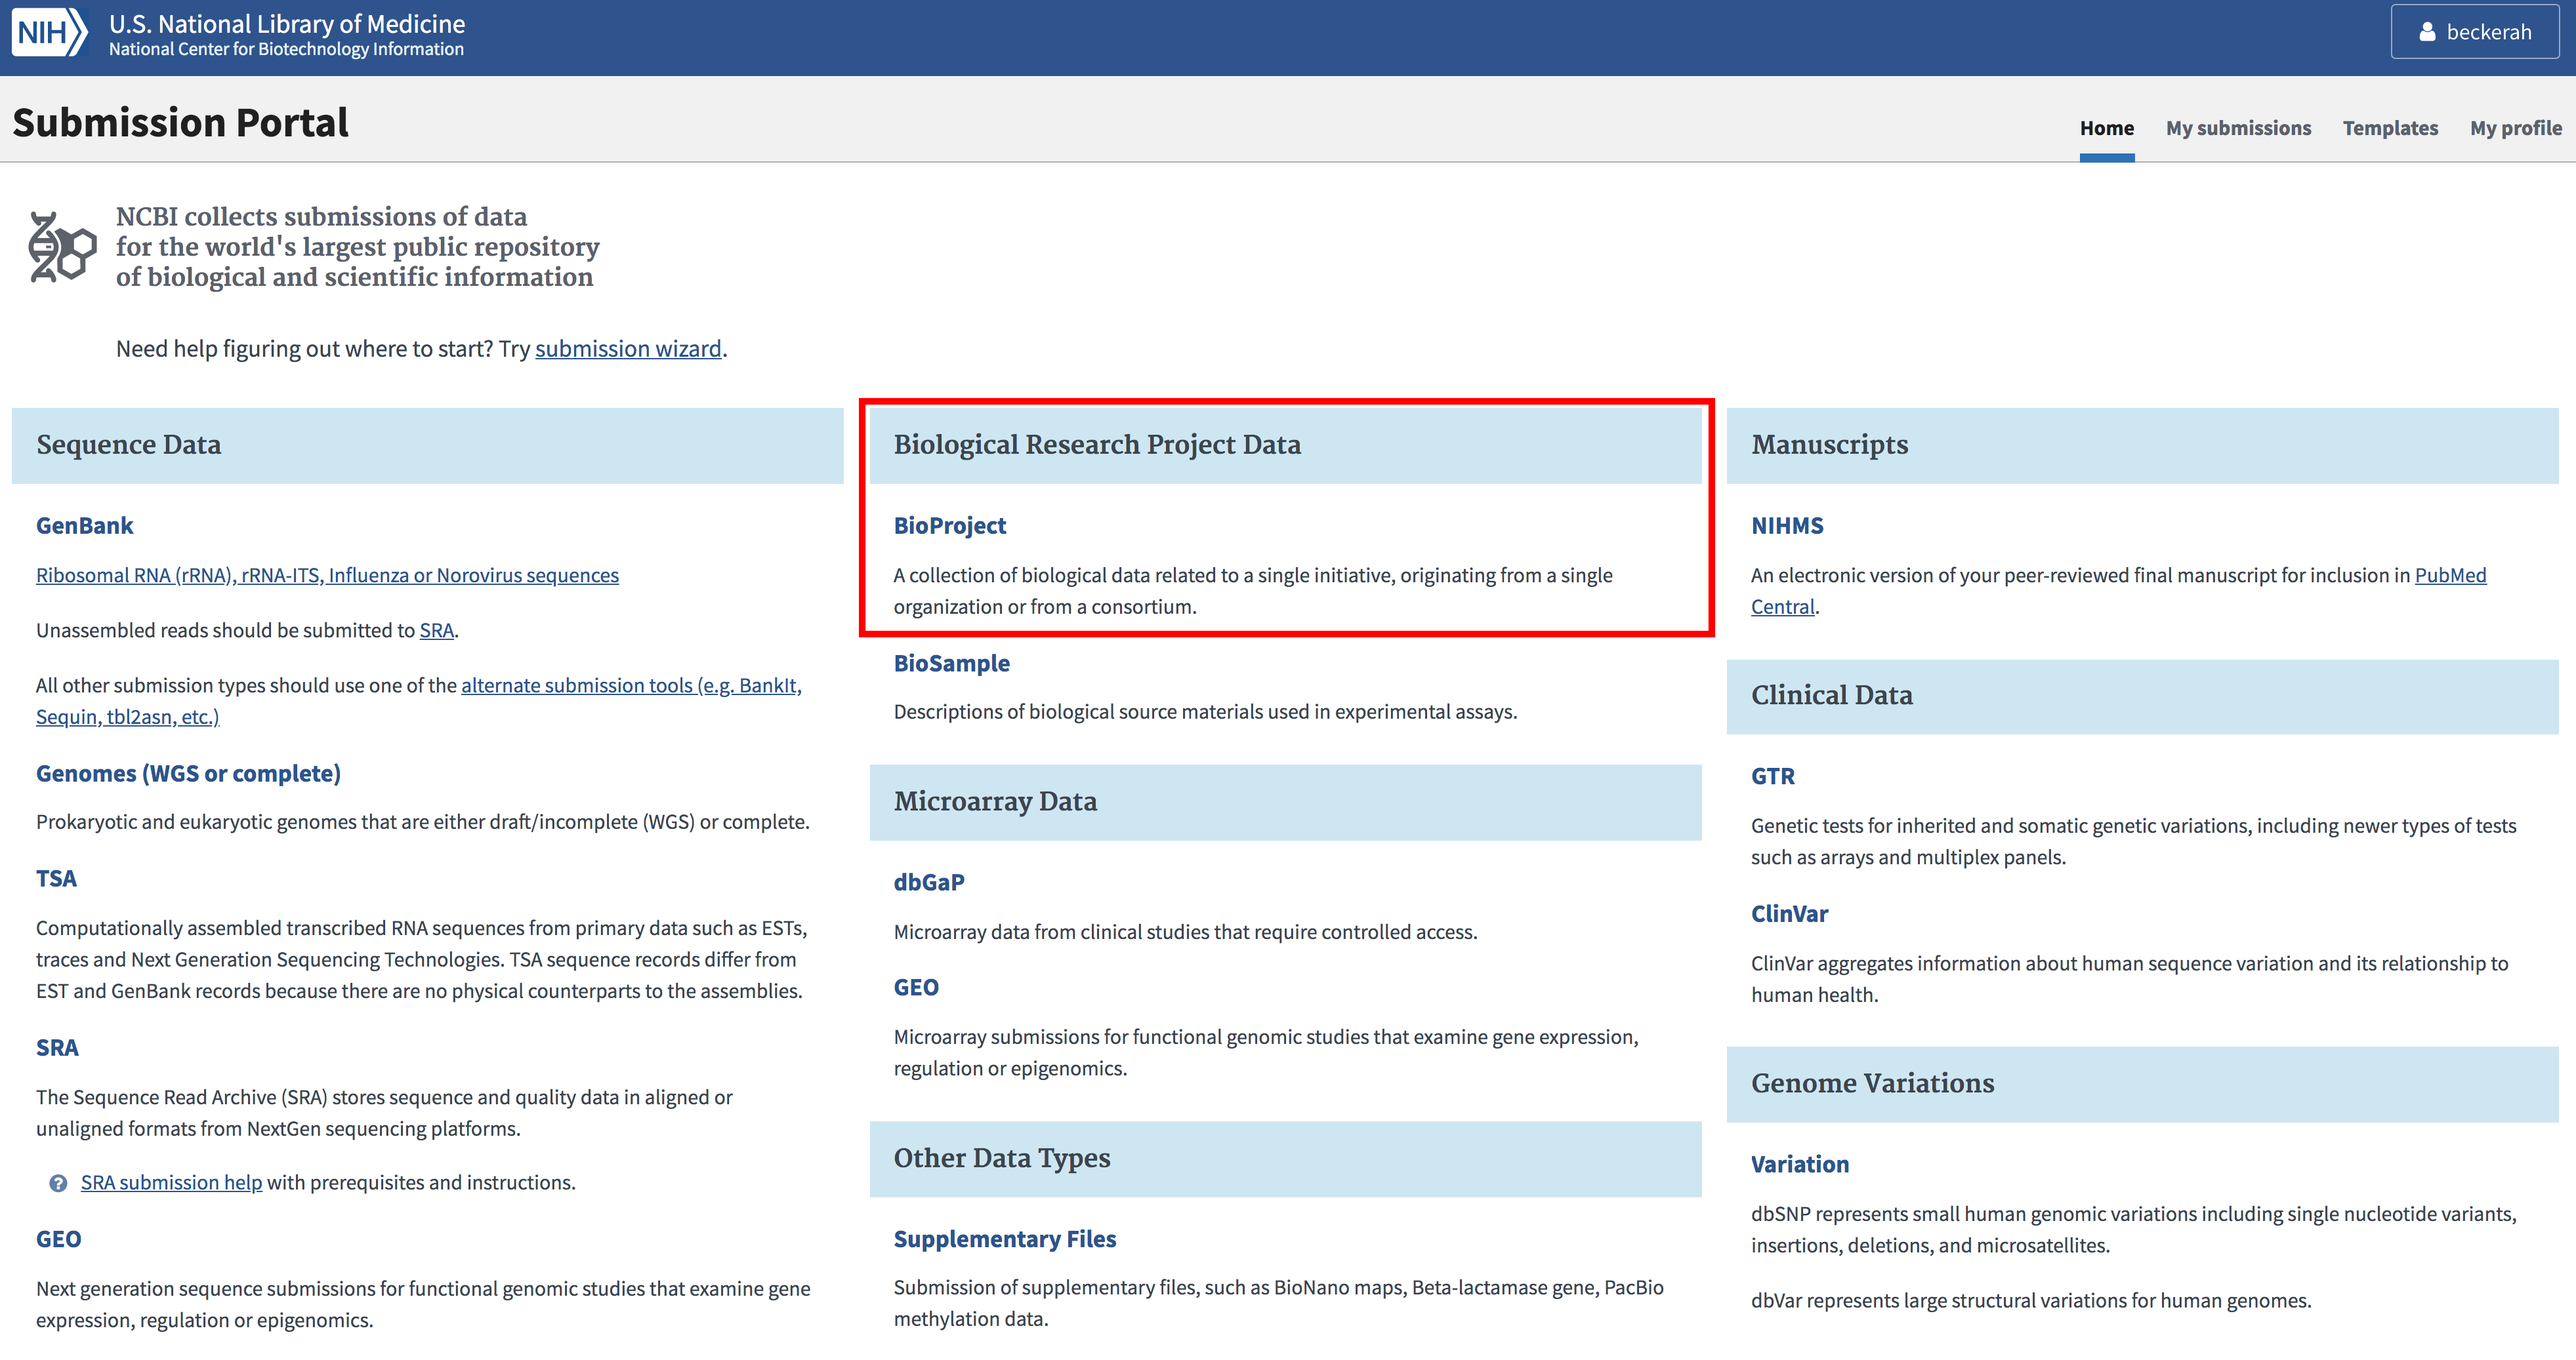
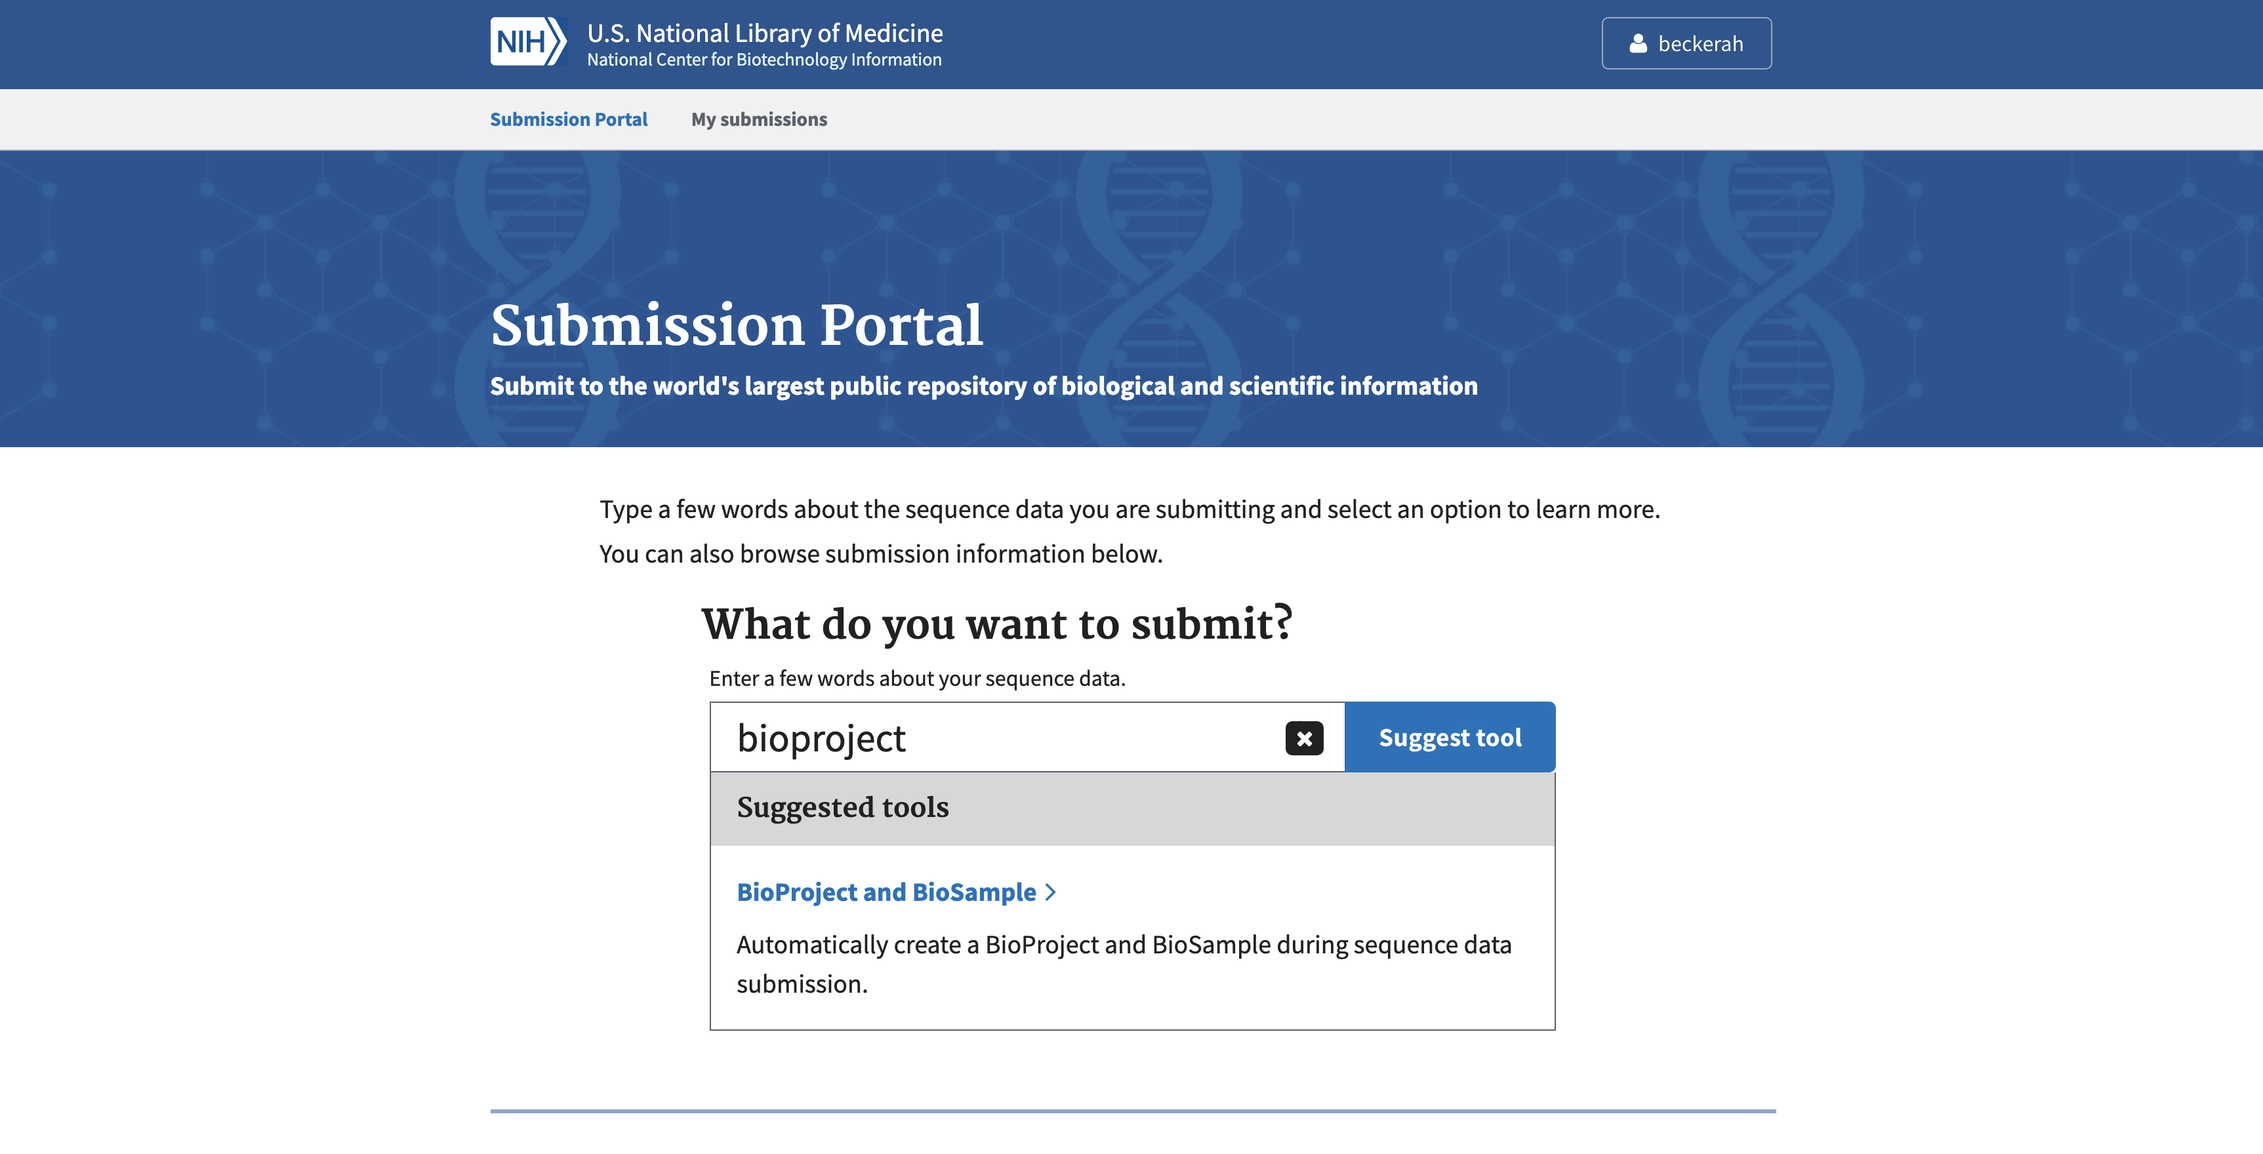
Update Bioproject Text and Images
Updating Bioproject creation info to match new Genbank site formatting

diff --git a/Docs/bioprojects.rst b/Docs/bioprojects.rst
@@ -37,7 +37,7 @@ To create a BioProject, navigate to the new NCBI Submission Portal: https://subm
 
   ..
 
-2. After signing in, you should be directed back to the Submission Portal page. Now click on the link for BioProject.
+2. After signing in, you should be directed back to the Submission Portal page. In the search box, type “bioproject” and you should see the suggestion “BioProject and BioSample”. Click on this link to get to the bioproject submission tool. 
 
 .. figure:: /images/ncbi_submission_portal_bioproject.png
   :align: center
@@ -45,7 +45,15 @@ To create a BioProject, navigate to the new NCBI Submission Portal: https://subm
 
   ..
 
-3. Click the New Submission button.
+3. Feel free to click through the headings on the left of the What You Should Expect section to learn more about the requirements and the submission process. When you’re ready to continue, click the Submit button.
+
+.. figure:: /images/ncbi_submission_bioprojects_and_biosamples.png
+  :align: center
+  :target: /en/latest/_images/ncbi_submission_bioprojects_and_biosamples.png
+
+  ..
+
+4. Click the New Submission button.
 
 .. figure:: /images/ncbi_submission_portal_new_submission.png
   :align: center
@@ -53,7 +61,7 @@ To create a BioProject, navigate to the new NCBI Submission Portal: https://subm
 
   ..
 
-4. Fill out the Submitter page.
+5. Fill out the Submitter page.
 
 .. figure:: /images/bioproject_submitter_page.png
   :align: center
@@ -61,7 +69,7 @@ To create a BioProject, navigate to the new NCBI Submission Portal: https://subm
 
   ..
 
-5. Select "Targeted Locus (Loci)" for Project Data Type, and "Multispecies" for Sample scope.
+6. Select "Targeted Locus (Loci)" for Project Data Type, and "Multispecies" for Sample scope.
 
 .. figure:: /images/bioproject_project_type.png
   :align: center
@@ -69,7 +77,7 @@ To create a BioProject, navigate to the new NCBI Submission Portal: https://subm
 
   ..
 
-6. Give a short description for "Multispecies description".
+7. Give a short description for "Multispecies description".
 
 .. figure:: /images/bioproject_target.png
   :align: center
@@ -77,7 +85,7 @@ To create a BioProject, navigate to the new NCBI Submission Portal: https://subm
 
   ..
 
-7. The submission portal will create an automated Project Title based on your previous entries, but overwrite this with the title of your project. Give a good description of the project in "Public description", because this will be front-and-center on the BioProject page. Finally, check the "Yes" box to indicate that this project is part of a larger initiative. 
+8. The submission portal will create an automated Project Title based on your previous entries, but overwrite this with the title of your project. Give a good description of the project in "Public description", because this will be front-and-center on the BioProject page. Finally, check the "Yes" box to indicate that this project is part of a larger initiative. 
 
 * If this BioProject falls under the SI Barcode Network, then enter "SI Barcode Network" for Initiative description, and "PRJNA81359" for BioProject Accession. 
 * If this BioProject falls under GGI, then enter "Global Genome Initiative" for Initiative description, and "PRJNA384793" for BioProject Accession. 
@@ -90,7 +98,7 @@ Leave the rest of entries on this page blank.
 
   ..
 
-8. Enter any links you would like to display as part of your project. Add the Consortium and/or Data provider, if needed.
+9. Enter any links you would like to display as part of your project. Add the Consortium and/or Data provider, if needed.
 
 .. figure:: /images/bioproject_links_and_consortium.png
   :align: center
@@ -98,7 +106,7 @@ Leave the rest of entries on this page blank.
 
   ..
 
-9. If you would like to enter any grants, click the Add grants link to enter the relevant information. 
+10. If you would like to enter any grants, click the Add grants link to enter the relevant information. 
 
 .. figure:: /images/bioproject_grant_info.png
   :align: center
@@ -106,9 +114,9 @@ Leave the rest of entries on this page blank.
 
   ..
 
-10. Skip the BioSample page.
-11. Add any Publications your project has generated on the Publications page. Don't worry, you can come back and add publications later.
-12. Finally, the Overview tab will show all of your entries in one place. This will be your last chance to make any changes before submitting.
+11. Skip the BioSample page.
+12. Add any Publications your project has generated on the Publications page. Don't worry, you can come back and add publications later.
+13. Finally, the Overview tab will show all of your entries in one place. This will be your last chance to make any changes before submitting.
 
 .. figure:: /images/bioproject_submission_review.png
   :align: center
@@ -116,7 +124,7 @@ Leave the rest of entries on this page blank.
 
   ..
 
-13. After a few days, you will receive an email from NCBI informing you that your BioProject has been successfully created. Most importantly, they will send your BioProject ID, which you can now add to existing GenBank records or include in new GenBank submissions.
+14. After a few days, you will receive an email from NCBI informing you that your BioProject has been successfully created. Most importantly, they will send your BioProject ID, which you can now add to existing GenBank records or include in new GenBank submissions.
 
 
 How to update BioProject information
